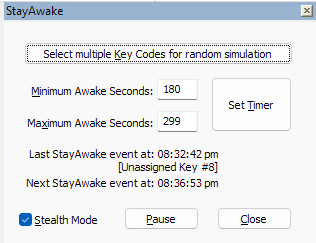
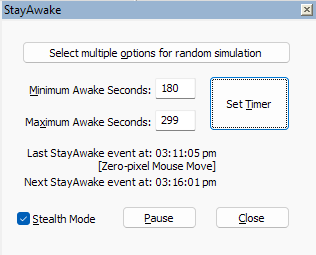
Updating images and documentation for v1.5.0.0 Release

diff --git a/src/Dialogs/SelectKeyCodes.cpp b/src/Dialogs/SelectKeyCodes.cpp
@@ -49,7 +49,7 @@ INT_PTR CALLBACK SelectKeyCodes::run_dlgProc(UINT message, WPARAM wParam, LPARAM
 
       case IDC_INPUT_OPTIONS_INFO_BTN:
          ShellExecute(_hSelf, L"open",
-            L"https://github.com/shriprem/StayAwake_NPP_Plugin/blob/Version2.0/InputOptions.md", nullptr, nullptr, SW_SHOW);
+            L"https://github.com/shriprem/StayAwake_NPP_Plugin/blob/main/InputOptions.md", nullptr, nullptr, SW_SHOW);
          break;
 
       case IDOK:

diff --git a/README.md b/README.md
@@ -8,22 +8,31 @@
 ![GitHub Workflow Status (with event)](https://img.shields.io/github/actions/workflow/status/shriprem/StayAwake_NPP_Plugin/CI_build.yml)
 ![GitHub issues](https://img.shields.io/github/issues/shriprem/StayAwake_NPP_Plugin)
 
-[Current Version: 1.2.0.1](https://github.com/shriprem/StayAwake_NPP_Plugin/blob/main/VersionHistory.md)
+![StayAwake UI](images/StayAwakePanel.png) &nbsp; ![Input Options UI](images/StayAwakeInputOptions.png)
+
+[Current Version: 1.5.0.0](VersionHistory.md)
 
 StayAwake is a simple, lightweight plugin for Notepad++ that enables you to maintain an _Active_ status on Microsoft Teams (and perhaps other messaging applications such as Slack and Zoom). StayAwake also prevents screen saver activation, screen blanking, and Windows session lockouts.
 
+## Features at a glance
+* Randomized simulation with mouse or key inputs. Roster with a choice of 24 no/low side-effect keys and 2 invisible mouse moves.
+* Random interval simulation. Intervals within a specified range of seconds.
+* Helpful status information with timestamps of Last and Next simulations.
+* Autostart with every Notepad++ session.
+* [Stealth Mode](#stealth-mode) option. StayAwake will continue to run even with its panel closed.
+* Manual Pause feature when needed.
+* Automatic Pause while Windows in locked state. Reduces disk activity and CPU usage. Conserves battery power.
+
 If you are using Microsoft Teams, you may have noticed that Teams automatically sets your status to _Away_ after a few minutes of inactivity. This can be frustrating if you are still at your desk but perhaps on a business phone call _OR_ outlining a plan on paper _OR_ consulting some reference material.
 
-StayAwake does its job by simulating key presses of unused or low side-effect buttons at specified time intervals. This is a safe and non-intrusive way to keep your Microsoft Teams status _Active_.
+StayAwake simulates a randomly selected input from a specified roster of jitter-free mouse moves and no/low side-effect keys. Additionally, these simulations are done at random intervals within a specified range of seconds. This is a safe and non-intrusive way to keep your Microsoft Teams status _Active_. The combined randomness of inputs and time intervals eliminates predictable patterns, making StayAwake simulations seem organic.
 
-* StayAwake will continue to run in the background even after its panel is closed.
-* StayAwake will autostart with every Notepad++ session. There is no need to leave the panel open to have StayAwake autostart with Notepad++. For more info on this feature, see: [Stealth Mode](#stealth-mode)
 
 ## Plugin Panel
 ![StayAwake UI](images/StayAwakePanel.png)
 
-#### Select multiple inputs for random simulation
-StayAwake can randomly pick any of the 12 key codes during each simulation. Users can specify _at least_ one OR a select few OR all of the 12 key codes to be included in the simulation roster. See the [Input Simulation Options](https://github.com/shriprem/StayAwake_NPP_Plugin/blob/Version2.0/InputOptions.md) section below for more info.
+#### Select multiple options for random simulation
+StayAwake can randomly pick any of the 26 inputs (24 key codes & 2 mouse moves) during each simulation. Users can specify _at least_ one OR a select few OR all of the 26 inputs to be included in the simulation roster. See [Input Simulation Options](InputOptions.md) for more info.
 
 #### Minimum Awake Seconds
 This field allows you to specify the minimum interval between key simulations. The initial default value for this is 240 seconds (_i.e._, 4 minutes). However, you can change this to any value between 10 and 9990 seconds. Your new value will be saved and used the next time you run StayAwake.
@@ -31,12 +40,16 @@ This field allows you to specify the minimum interval between key simulations. T
 #### Maximum Awake Seconds
 This field allows you to specify the maximum interval between key simulations. The initial default value for this is 240 seconds (_i.e._, 4 minutes). However, you can change this to any value between 10 and 9990 seconds. Your new value will be saved and used the next time you run StayAwake.
 
+**Note**: If the value entered for *Maximum Awake Seconds* is less than the value for *Minimum Awake Seconds*, the *Maximum Awake Seconds* value will be automatically swapped with the *Minimum Awake Seconds* value.
+
+**Tip**: If Microsoft Teams is changing your status to _Away_ after 5 minutes (i.e., 300 seconds) of inactivity, consider setting the *Minimum Awake Seconds* to around 200 and the *Maximum Awake Seconds* to 310 or 320 or even 330 (i.e., a little over 300). This weighted range will cause your Teams status to briefly drift out of _Active_ status once in a while -- a more normal user behavior from your coworkers' perspective than a solid green status through an entire work day.
+
 #### Set Timer button
 After changing the value for either *Minimum Awake Seconds* or *Maximum Awake Seconds*, click this button to apply the new setting. Clicking this button will also immediately invoke an Awake event.
 
 After every Awake event, a random number of seconds (between the specified minimum and maximum seconds) will be picked to run the next Awake event.
 
-The clock times of the last and next Awake events will be displayed and continually refreshed on the StayAwake window. The randomly picked key code used for the last Awake will also be displayed below the last Awake time.
+The clock times of the last and next Awake events will be displayed and continually refreshed on the StayAwake panel. The randomly picked input option used for the last Awake will also be displayed below the last Awake time.
 
 #### Stealth Mode checkbox
 The stealth mode can be turned ON/OFF either with this checkbox or via the Notepad++ menu option: *Plugins » StayAwake » Stealth Mode*. When stealth mode is active, the *Stealth Mode* menu option will have a checkmark indicator. See the [Stealth Mode](#stealth-mode) section below for more info.
@@ -53,6 +66,7 @@ As seen in the clip above, clicking the *Pause* button will also have these effe
 
    ![StayAwake UI](images/StayAwakePausedLaunch.png)
 
+4. On a related note, if the Windows system has been manually locked, StayAwake will pause key and mouse simulations until the system gets unlocked again. This will help reduce disk activity and CPU usage (thus conserving battery power on laptops) while the system is in locked state.
 
 #### Close button
 Click this button to close the plugin panel and continue to run StayAwake in the background.
@@ -91,7 +105,9 @@ Beginning with the v1.1.0.0 release, StayAwake will autostart with every Notepad
 ## Configuration File Details
 StayAwake saves its configuration in a file named `StayAwake.ini`. These key-value pairs are stored in this file:
 
-1. `SelectedKeyCodes`: This key stores a string of 12 characters -- each character indicating if a key code in the [Input Simulation Options](https://github.com/shriprem/StayAwake_NPP_Plugin/blob/Version2.0/InputOptions.md) popup is selected or not with either a `1` or `0`, respectively.
+1. `SelectedKeyCodes`: This key stores a string of 26 characters -- each character indicating if a key code or mouse move in the [Input Simulation Options](InputOptions.md) popup is enabled or not with either a `1` or `0`, respectively.
+
+   If an invalid value is detected for this key, the default value of `00111111111111111111111111` (i.e., enabling of all inputs except *Scroll Lock cycle* and *Volume Down & Up*) will be used instead.
 
 2. `MinimumIntervalInSeconds`: This key stores the minimum number of seconds between each StayAwake Key simulation as specified in the [Minimum Awake Seconds](#minimum-awake-seconds) field.
 
@@ -123,6 +139,10 @@ However, if you are looking for a way to keep your Microsoft Teams status _Activ
 Within Notepad++, you can install the StayAwake plugin using the Notepad++ Plugin Manager (**Plugins » Plugins Admin** menu option => **Available** tab).
 
 After installing the StayAwake plugin, click on **Plugins » StayAwake » Show StayAwake Panel** menu option to start the utility.
+
+If you like StayAwake, please star this repo. Thank you for your appreciation.
+
+If you would like to support its development, you can buy me a coffee by clicking the button below. Thank you for your support!
 
 <a href='https://ko-fi.com/S6S417WICS' target='_blank'><img height='36' style='border:0px;height:36px;' src='https://storage.ko-fi.com/cdn/kofi5.png?v=6' border='0' alt='Buy Me a Coffee at ko-fi.com' /></a>
 
